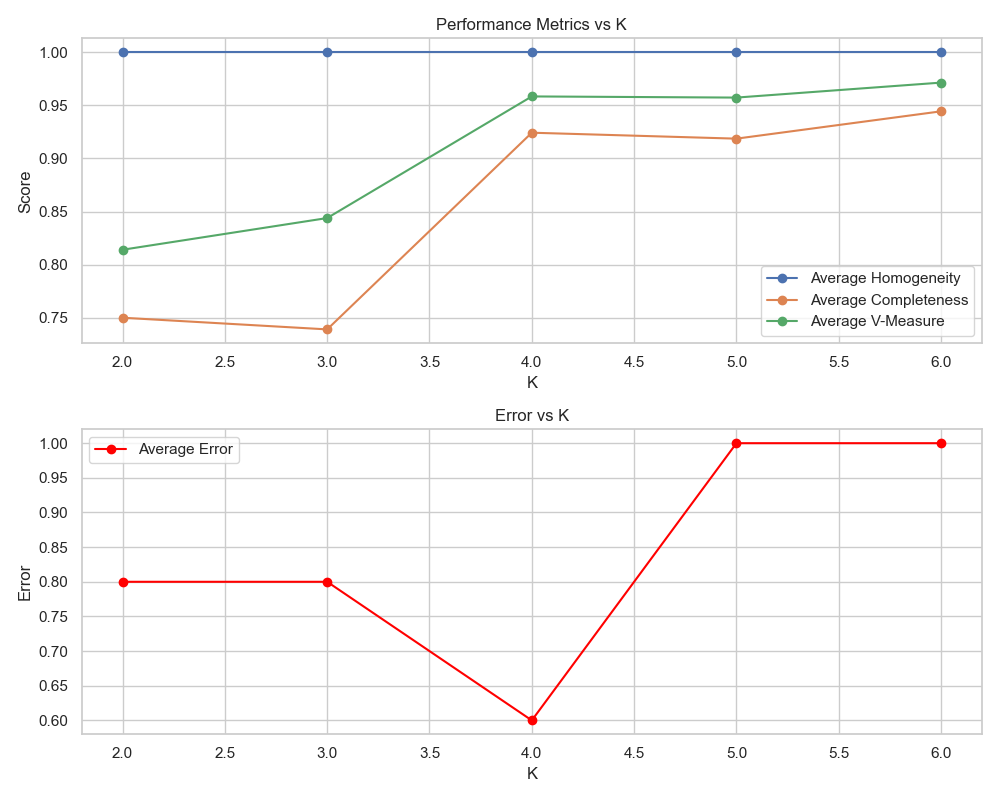
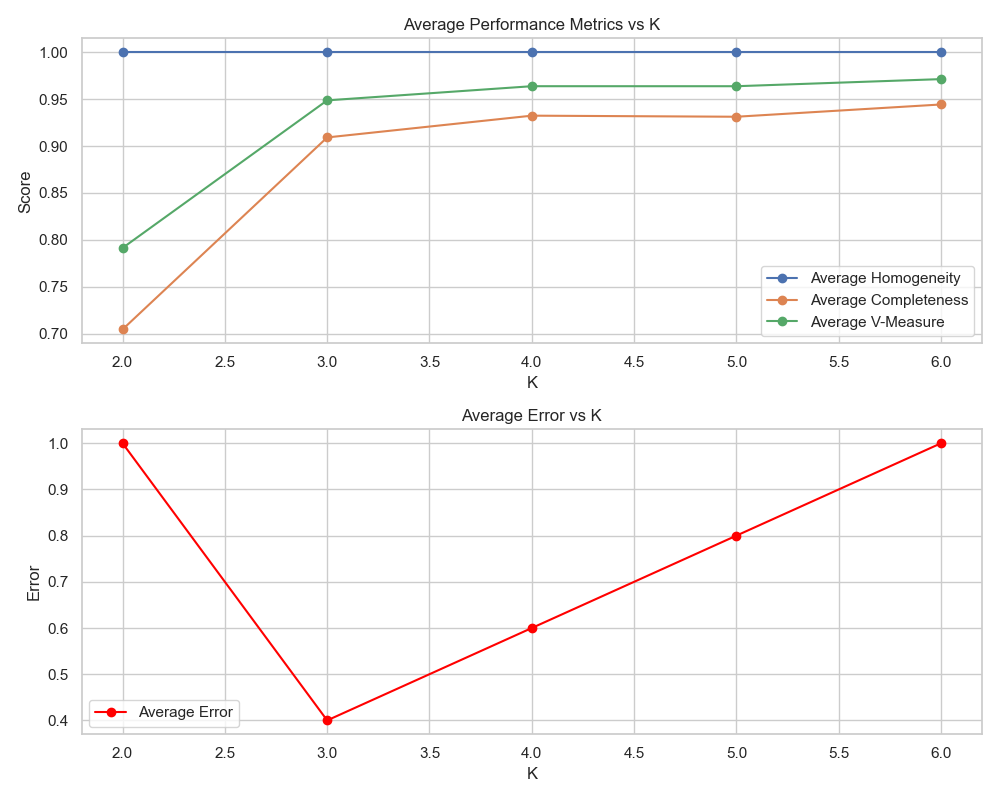
README

diff --git a/Challenge.py b/Challenge.py
@@ -76,8 +76,6 @@ if __name__ == '__main__':
             burst_df = encoded_df.drop(['Timestamp'], axis=1)
             burst_df = burst_df.groupby(['MAC Address'])
             burst_df = burst_df.first().reset_index()
-
-            burst_df = burst_df.first().reset_index()
             display(burst_df)
             label_count = burst_df["Label"].value_counts()
             print(f"Label count:\n {label_count}")

diff --git a/README.md b/README.md
@@ -28,11 +28,11 @@ This README provides instructions and results for HW3 of the Network Measurement
 2. The script utilizes data from the "challenge-dataset" directory.
 3. The results of the analysis for different values of K are as follows:
 
-   - K=2, Average H=1.0, Average C=0.750, Average V=0.814, Average Error=0.8
-   - K=3, Average H=1.0, Average C=0.739, Average V=0.844, Average Error=0.8
-   - K=4, Average H=1.0, Average C=0.924, Average V=0.958, Average Error=0.6
-   - K=5, Average H=1.0, Average C=0.919, Average V=0.957, Average Error=1.0
-   - K=6, Average H=1.0, Average C=0.944, Average V=0.971, Average Error=1.0
+* K=2, Average H=1.0, Average C=0.7045206158343548, Average V=0.7913669176947777, Average Error=1.0
+* K=3, Average H=1.0, Average C=0.9092046198599684, Average V=0.9487343058921548, Average Error=0.4
+* K=4, Average H=1.0, Average C=0.9324160068172935, Average V=0.9638204441429764, Average Error=0.6
+* K=5, Average H=1.0, Average C=0.9312667246673367, Average V=0.9638058458642824, Average Error=0.8
+* K=6, Average H=1.0, Average C=0.9443515050002154, Average V=0.9713794060093172, Average Error=1.0
 4. The script generates a performance plot with different K saved as [Challenge_dataset_Performance.png](result_figure/Challenge_dataset_Performance.png)
 
 ## Task 3: Analyzing Unlabeled Dataset
